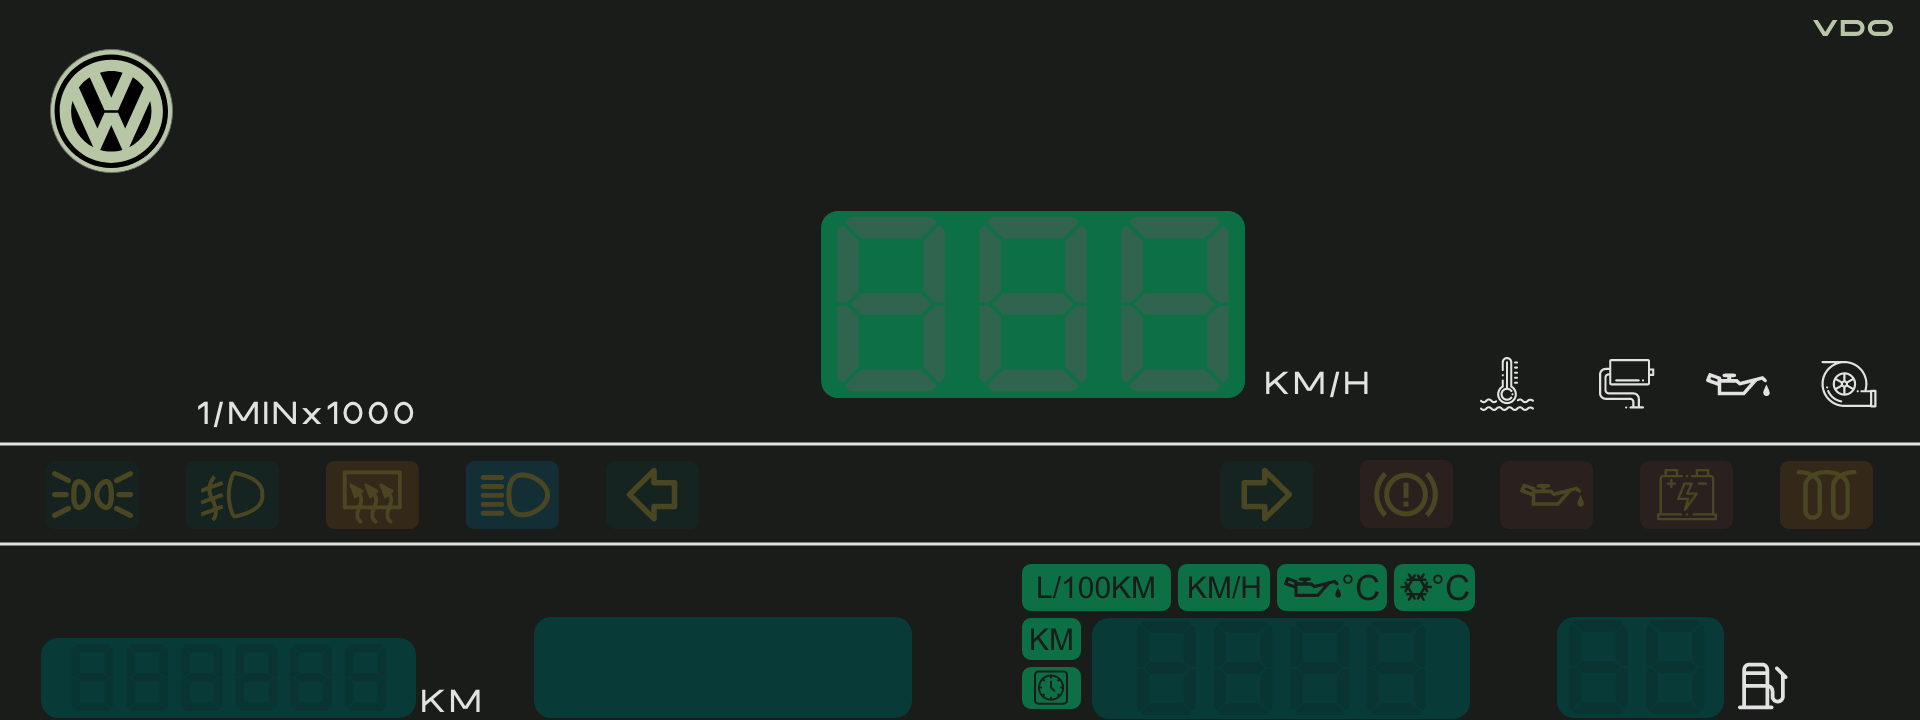
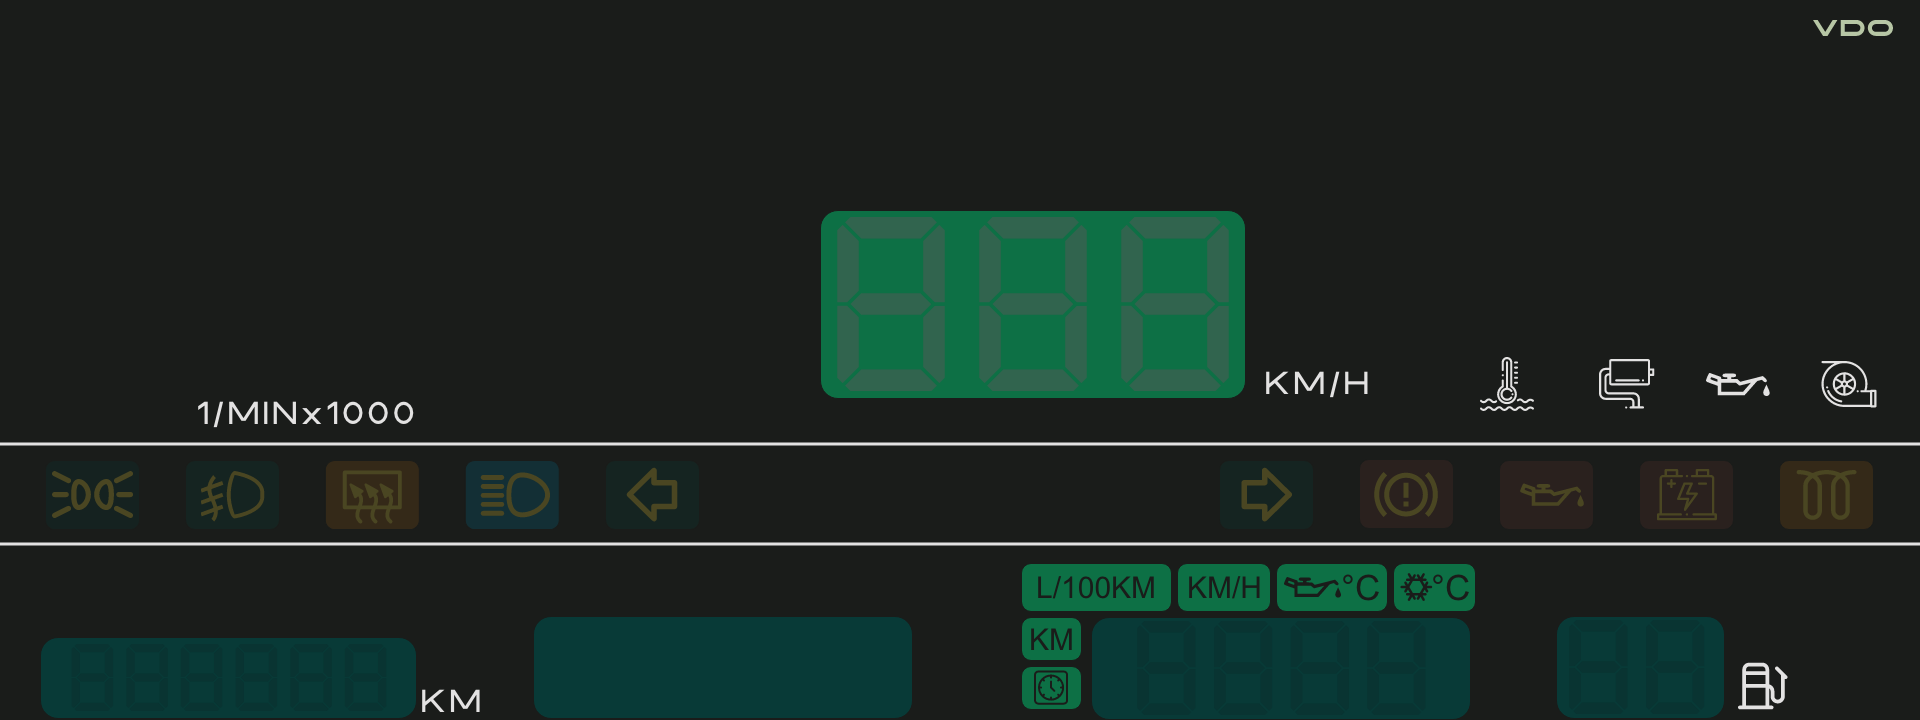
update resolution

Changed region(s): [[0.0, 0.0611, 0.0938, 0.2444]]

diff --git a/main.py b/main.py
@@ -62,6 +62,7 @@ rpm = RpmGauge(RPM_XY, 50)
 indicator_images = []
 for i in range(10):
     image = pygame.image.load(("images/indicators/ind" + str(i) + ".png"))
+    image = pygame.transform.scale(image, (image.get_size()[0]/2.4, image.get_size()[1]/2.4))
     indicator_images.append(image)
 
 
@@ -290,31 +291,31 @@ def draw_indicators():
     '''
 
     if illumination_state == 1:
-        WIN.blit(indicator_images[0], (45, 460))
+        WIN.blit(indicator_images[0], (45/2.4, 460/2.4))
     if foglight_state == 1:
-        WIN.blit(indicator_images[1], (185, 460))
+        WIN.blit(indicator_images[1], (185/2.4, 460/2.4))
     if defog_state == 1:
-        WIN.blit(indicator_images[2], (325, 460))
+        WIN.blit(indicator_images[2], (325/2.4, 460/2.4))
     if highbeam_state == 1:
-        WIN.blit(indicator_images[3], (465, 460))
+        WIN.blit(indicator_images[3], (465/2.4, 460/2.4))
     if leftturn_state == 1:
-        WIN.blit(indicator_images[4], (605, 460))
+        WIN.blit(indicator_images[4], (605/2.4, 460/2.4))
     if rightturn_state == 1:
-        WIN.blit(indicator_images[5], (1220, 460))
+        WIN.blit(indicator_images[5], (1220/2.4, 460/2.4))
     if brakewarn_state == 1:
-        WIN.blit(indicator_images[6], (1360, 460))
+        WIN.blit(indicator_images[6], (1360/2.4, 460/2.4))
     if oillight_state == 1:
-        WIN.blit(indicator_images[7], (1500, 460))
+        WIN.blit(indicator_images[7], (1500/2.4, 460/2.4))
     if alt_state == 1:
-        WIN.blit(indicator_images[8], (1640, 460))
+        WIN.blit(indicator_images[8], (1640/2.4, 460/2.4))
     if glow_state == 1:
-        WIN.blit(indicator_images[9], (1780, 460))
+        WIN.blit(indicator_images[9], (1780/2.4, 460/2.4))
 
     #   To highlight the fuel reserve indicator (factory is at 7 litres
     if fuel_status <= 7:
-        WIN.blit(fuelresOn, (1795, 616))
+        WIN.blit(fuelresOn, (1795/2.4, 616/2.4))
     else:
-        WIN.blit(fuelresOff, (1795, 616))
+        WIN.blit(fuelresOff, (1795/2.4, 616/2.4))
 
 #   Main Drawings for the program - Background + Gauges
 def draw_digifiz():
@@ -346,7 +347,7 @@ def main():
     # client.loop_start()  # start the loop
     i=0
 
-    pygame.display.set_mode((0, 0), pygame.FULLSCREEN)
+    # pygame.display.set_mode((0, 0), pygame.FULLSCREEN)
     #   The main loop, clock setting and click x for quit etc.
     run = True
     while run:
@@ -354,36 +355,24 @@ def main():
         for event in pygame.event.get():
             if event.type == pygame.QUIT:
                 run = False
-
-
-        #   MQTT Call backs... putting values in from topics
-
-        # client.subscribe("#") #     Subscribes to all topics
-        # client.message_callback_add('engine/rpm/state', on_message_rpm)
+        keys = pygame.key.get_pressed()
+        if keys[pygame.K_ESCAPE]:
+            pygame.quit()
+        if keys[pygame.K_UP]:
+            i=(i+1)%51
+        if keys[pygame.K_DOWN]:
+            i=0 if i-1<0 else i-1
         rpm.set_frame(i)
-        # client.message_callback_add('engine/egt/state', on_message_egt)
-        # client.message_callback_add('engine/oilpressure/state', on_message_oilpressure)
-        # client.message_callback_add('engine/boost/state', on_message_boost)
-        # client.message_callback_add('engine/coolant/state', on_message_coolant)
-        # client.message_callback_add('engine/fuel/state', on_message_fuel)
-        # client.message_callback_add('cabin/outside_temp/state', on_message_outside_temp)
-        # client.message_callback_add('cabin/speed_cv/state', on_message_speed_cv)
+        boost.set_frame(i%20)
+        oilpressure.set_frame(i%20)
+        egt.set_frame(i%20)
+        coolant.set_frame(i%20)
         global speed_status
         speed_status=i*3
-        # client.message_callback_add('indicator/illumination/state', on_message_illumination)
-        # client.message_callback_add('indicator/foglight/state', on_message_foglight)
-        # client.message_callback_add('indicator/defog/state', on_message_defog)
-        # client.message_callback_add('indicator/highbeam/state', on_message_highbeam)
-        # client.message_callback_add('indicator/leftturn/state', on_message_leftturn)
-        # client.message_callback_add('indicator/rightturn/state', on_message_rightturn)
-        # client.message_callback_add('indicator/brakewarn/state', on_message_brakewarn)
-        # client.message_callback_add('indicator/oillight/state', on_message_oillight)
-        # client.message_callback_add('indicator/alt/state', on_message_alt)
-        # client.message_callback_add('indicator/glow/state', on_message_glow)
-
+        global fuel_status
+        fuel_status=i
         draw_digifiz()
         pygame.display.update()
-        i=(i+1)%51
     pygame.quit()
 
 

diff --git a/constants.py b/constants.py
@@ -6,19 +6,22 @@ import pygame
 #   Will potentially change this in future to have full gauge functionality.
 #   testingStatus = False
 
-testingStatus = False
+testingStatus = True
+
+scale=2.4
 
 #   Screen Size
-WIDTH, HEIGHT = 1920, 720  # use your screens display information
+WIDTH, HEIGHT = 800, 480  # use your screens display information
 WIN = pygame.display.set_mode((WIDTH, HEIGHT), pygame.DOUBLEBUF)
+WIN.fill((26,28,26))
 FPS = 60
 
 # Title and Icon
 ICON = "images/speedometer.png"
 BG = "images/background.png"
 programIcon = pygame.image.load(ICON)
-project_name = "Digifiz Dashboard - "
-digifiz_ver = "v. 0.5"
+project_name = "piguage - "
+digifiz_ver = "v. 0.1"
 
 #   Colours
 NEON_YELLOW = (236, 253, 147)   #   Speedo Colour
@@ -27,30 +30,34 @@ DARK_GREY = (9, 52, 50)         #   background of the digits (for the 7segment a
 
 #   Font Details
 FONT_PATH = "fonts/DSEG7Classic-Bold.ttf"
-FONT_LARGE = 174    #   Speedo size
-FONT_MEDIUM = 94    #   Clock, MFA, Fuel size
-FONT_SMALL = 67     #   Odo Size
+FONT_LARGE = int(174/scale)    #   Speedo size
+FONT_MEDIUM = int(94/scale)    #   Clock, MFA, Fuel size
+FONT_SMALL = int(67/scale)     #   Odo Size
 
 
 #   Locations for gauge graphics, each has the same start XY but builds upon it, check images folder
-RPM_XY = (135, 5)
-COOLANT_XY = (1481, 105)
-EGT_XY = (1599, 105)
-OILPRESSURE_XY = (1711, 105)
-BOOST_XY = (1822, 105)
-CLOCK_XY = (555, 620)
-FUEL_XY = (1560, 620)
-ODO_XY = (60, 644)
-ODO_L_XY = (395, 678)
-MFA_XY = (1435, 668)
-MFABG_XY = (1021, 563)
-SPEEDO_XY = (1247, 305)
+RPM_XY = (135/scale, 5)
+COOLANT_XY = (1481/scale, 105/scale)
+EGT_XY = (1599/scale, 105/scale)
+OILPRESSURE_XY = (1711/scale, 105/scale)
+BOOST_XY = (1822/scale, 105/scale)
+CLOCK_XY = (555/scale, 620/scale+1)
+FUEL_XY = (1560/scale, 620/scale)
+ODO_XY = (60/scale, 644/scale)
+ODO_L_XY = (395/scale, 678/scale)
+MFA_XY = (1435/scale, 668/scale)
+MFABG_XY = (1021/scale, 563/scale)
+SPEEDO_XY = (1247/scale, 305/scale)
 
 
 
 '''                         LOAD IMAGES                         '''
 
 BACKGROUND = pygame.image.load(BG).convert_alpha()
+BACKGROUND = pygame.transform.scale(BACKGROUND, (BACKGROUND.get_size()[0]/scale, BACKGROUND.get_size()[1]/scale))
 MFA = pygame.image.load("images/indicators/MFA_temp.png").convert_alpha()
+MFA = pygame.transform.scale(MFA,(MFA.get_size()[0]/scale,MFA.get_size()[1]/scale))
 fuelresOn = pygame.image.load("images/indicators/fuelResOn.png").convert_alpha()
+fuelresOn = pygame.transform.scale(fuelresOn,(fuelresOn.get_size()[0]/scale,fuelresOn.get_size()[1]/scale))
 fuelresOff = pygame.image.load("images/indicators/fuelResOff.png").convert_alpha()
+fuelresOff = pygame.transform.scale(fuelresOff,(fuelresOff.get_size()[0]/scale,fuelresOff.get_size()[1]/scale))

diff --git a/variables.py b/variables.py
@@ -3,14 +3,14 @@
 '''                        Dash Variables                        '''
 
 #   Gauge State Variables --> fed from local MQTT Server
-rpm_status = 0
-coolant_status = 0
-egt_status = 0
-oilpressure_status = 0
-boost_status = 0
-fuel_status = 0
-outside_temp_status = 0
-speed_status = 0
+rpm_status = 1
+coolant_status = 1
+egt_status = 1
+oilpressure_status = 1
+boost_status = 1
+fuel_status = 1
+outside_temp_status = 666
+speed_status = 1
 
 #   MQTT Variables
 broker_address = "localhost"  # Broker address
@@ -20,17 +20,17 @@ port = 1883  # Broker port
 '''GPIO State Variables'''
 #
 # 0 is off, 1 is active -- Fed from the MQTT Server
-illumination_state = 0
-foglight_state = 0
-highbeam_state = 0
-defog_state = 0
-leftturn_state = 0
-rightturn_state = 0
-brakewarn_state = 0
-oillight_state = 0
-alt_state = 0
-glow_state = 0
-fuelres_state = 0
+illumination_state = 1
+foglight_state = 1
+highbeam_state = 1
+defog_state = 1
+leftturn_state = 1
+rightturn_state = 1
+brakewarn_state = 1
+oillight_state = 1
+alt_state = 1
+glow_state = 1
+fuelres_state = 1
 
 # For the TestingStatus gauge change feature with the up/down arrows
-gauge_change = 0
+gauge_change = 1

diff --git a/aux_gauge/AuxGauge.py b/aux_gauge/AuxGauge.py
@@ -24,6 +24,7 @@ class AuxGauge:
 		'''Function to apply the int to the image, so setting the display to match the values'''
 		image = str(frame)+".png"
 		self.image = pygame.image.load('images/gauges/aux' + image)
+		self.image = pygame.transform.scale(self.image,(self.image.get_size()[0]/2.4,self.image.get_size()[1]/2.4))
 
 	def get_pos(self):
 		return (self.posxy)

diff --git a/draw.py b/draw.py
@@ -66,7 +66,7 @@ def draw_fuel_text():
     digital_fuel = fuel_status
     fuel_text = digital_font.render(str(int(digital_fuel)), True, NEON_GREEN)
     text_rect = fuel_text.get_rect()
-    text_rect.midright = 1717, 667
+    text_rect.midright = 1717, 100 #667
     WIN.blit(fuel_text, text_rect)
 
 

diff --git a/rpm/rpm.py b/rpm/rpm.py
@@ -19,6 +19,7 @@ class RpmGauge:
 	def set_image(self, frame):
 		image = str(frame)+"00.png"
 		self.image = pygame.image.load('images/rpm/RPM ' + image)
+		self.image = pygame.transform.scale(self.image, (1166/2.4,418/2.4))
 
 	def get_pos(self):
 		return (self.posxy)
